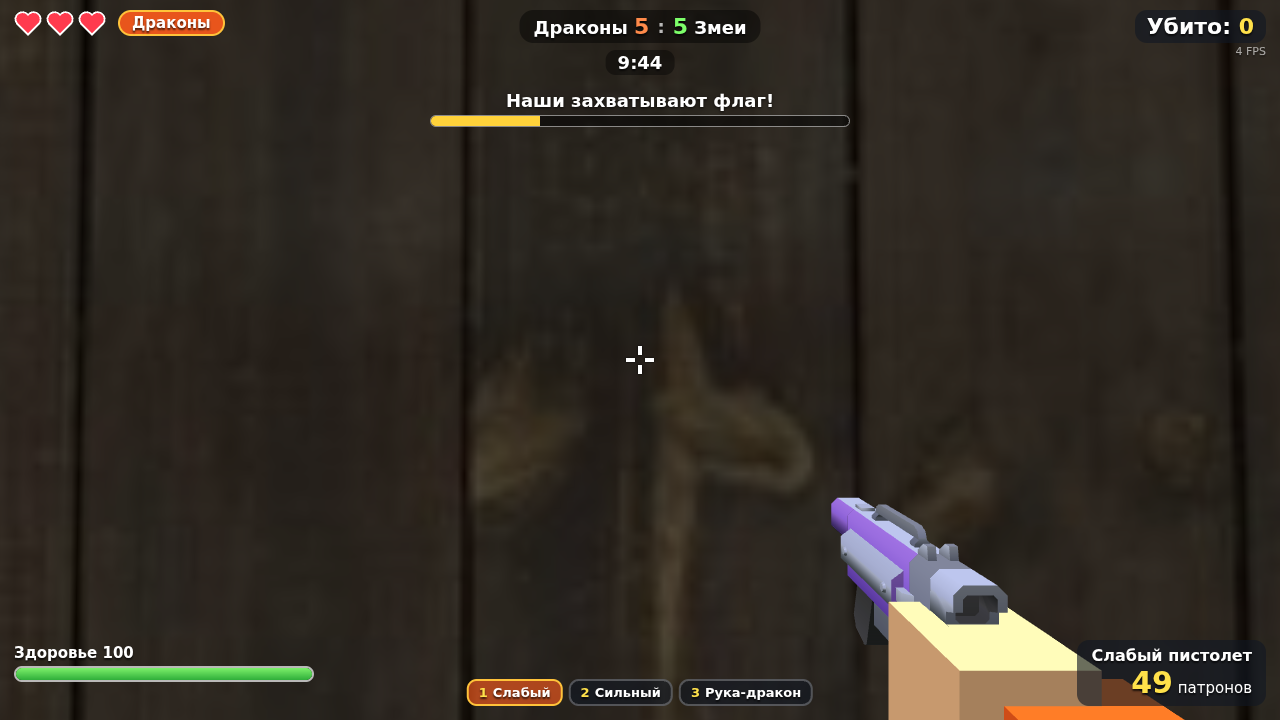
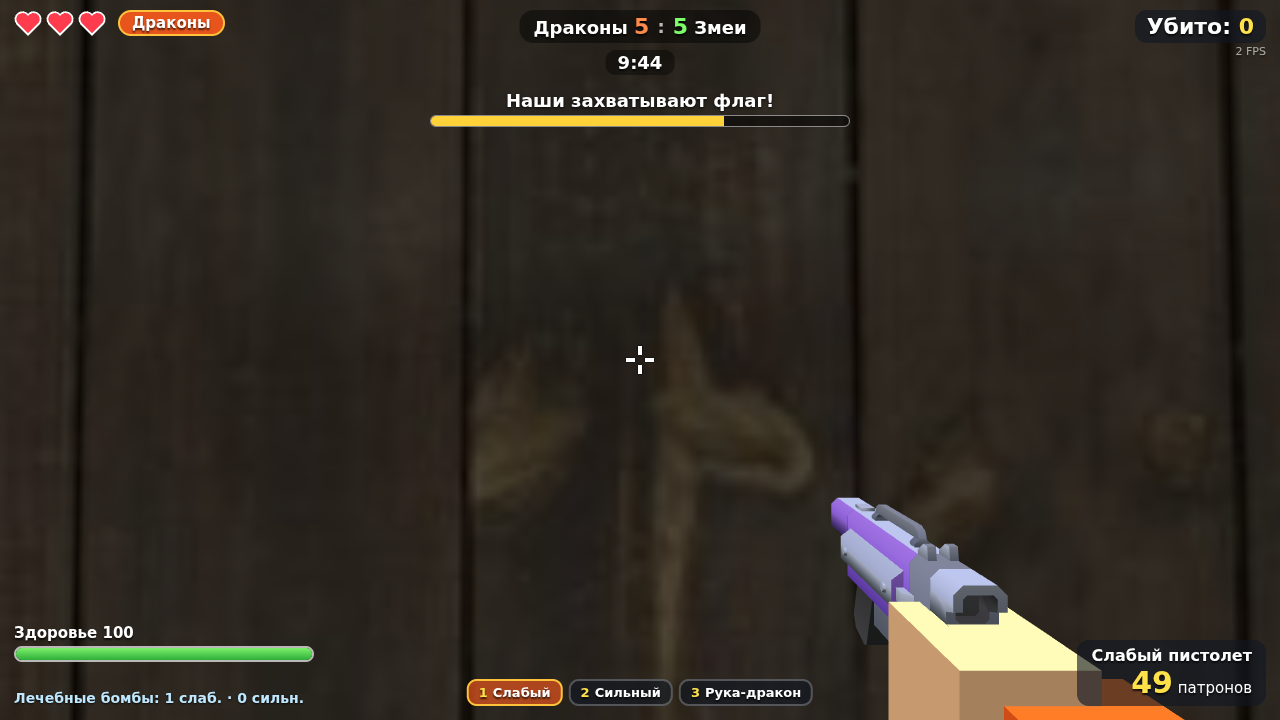
Healing bombs: dome of immortality
Weak (30 s) and strong (2 min) healing bombs, up to 3 each; one weak bomb
at the start, more from ammo chests. G/H on desktop, «Купол» on phones.
The translucent dome stays where it was thrown: inside it you cannot die,
heal 6 HP/s and cannot shoot (GDD); it blinks in the last 5 s. HUD shows
bombs left and the dome timer. Smoke: dome heals, saves, blocks shooting.

Changed region(s): [[0.0, 0.8556, 0.25, 0.9778], [0.4062, 0.1528, 0.5625, 0.1833]]

diff --git a/client/src/game.ts b/client/src/game.ts
@@ -1,5 +1,6 @@
 import {
   PhotoDome,
+  StandardMaterial,
   Color3,
   Color4,
   DirectionalLight,
@@ -131,6 +132,10 @@ export class Game {
   };
   private medkits: AmmoChest[] = [];
   readonly animals: Animal[] = [];
+  /** Лечебные бомбы в запасе */
+  bombs = { weak: 1, strong: 0 };
+  /** Активный купол бессмертия (один на игрока) */
+  dome: { mesh: Mesh; center: Vector3; until: number; total: number } | null = null;
   private playerPrey!: Prey;
   private botPrey = new Map<Bot, Prey>();
   private animalTargets = new Map<Animal, Target>();
@@ -416,6 +421,65 @@ export class Game {
     }
   }
 
+  // ---------------- Лечебные бомбы и купол ----------------
+
+  private inDome(): boolean {
+    const d = this.dome;
+    if (!d) return false;
+    const p = this.player.position;
+    return (p.x - d.center.x) ** 2 + (p.z - d.center.z) ** 2 < RULES.domeRadius ** 2;
+  }
+
+  private throwBomb(kind: "weak" | "strong" | "any"): void {
+    const k = kind === "any" ? (this.bombs.weak > 0 ? "weak" : "strong") : kind;
+    if (this.bombs[k] <= 0) {
+      this.hud.message(k === "weak" ? "Нет слабых лечебных бомб" : "Нет сильных лечебных бомб", 1.2, "#ffb347");
+      return;
+    }
+    this.bombs[k]--;
+    this.removeDome();
+    const total = k === "weak" ? RULES.domeWeakSec : RULES.domeStrongSec;
+    const mesh = MeshBuilder.CreateSphere("dome", { diameter: RULES.domeRadius * 2, segments: 24 }, this.scene);
+    const m = new StandardMaterial("domeMat", this.scene);
+    m.diffuseColor = new Color3(0.4, 1, 0.75);
+    m.emissiveColor = new Color3(0.15, 0.5, 0.35);
+    m.specularColor = new Color3(0.8, 1, 0.9);
+    m.alpha = 0.22;
+    m.backFaceCulling = false;
+    mesh.material = m;
+    mesh.isPickable = false;
+    const c = this.player.position.clone();
+    mesh.position.set(c.x, 0, c.z);
+    this.dome = { mesh, center: c, until: this.now + total, total };
+    this.sfx.pickup();
+    this.hud.message(`Купол бессмертия на ${total < 60 ? total + " с" : total / 60 + " мин"} — под ним не стреляют`, 2.2, "#7dffb0");
+  }
+
+  private removeDome(): void {
+    if (!this.dome) return;
+    this.dome.mesh.material?.dispose();
+    this.dome.mesh.dispose();
+    this.dome = null;
+  }
+
+  private updateDome(dt: number): void {
+    const d = this.dome;
+    if (!d) return;
+    const left = d.until - this.now;
+    if (left <= 0) {
+      this.removeDome();
+      this.hud.message("Купол исчез", 1.2, "#ffb347");
+      return;
+    }
+    // Последние 5 секунд купол мигает
+    (d.mesh.material as StandardMaterial).alpha = left < 5 ? 0.12 + 0.12 * Math.abs(Math.sin(this.now * 8)) : 0.22;
+    const p = this.player;
+    if (this.inDome() && p.alive) {
+      p.invulnerableUntil = Math.max(p.invulnerableUntil, this.now + 0.15);
+      p.hp = Math.min(RULES.maxHp, p.hp + RULES.domeHealPerSec * dt);
+    }
+  }
+
   // ---------------- Окна ----------------
 
   /** Стекло разбито: звон, осколки, проём свободен */
@@ -533,6 +597,8 @@ export class Game {
     this.deadTimer = 0;
     this.player.lives = RULES.lives;
     this.player.owned.delete("slingshot");
+    this.bombs = { weak: 1, strong: 0 };
+    this.removeDome();
     this.player.selectWeapon(0);
     this.respawnPlayer();
     this.bots.forEach((b, i) => {
@@ -630,6 +696,7 @@ export class Game {
       this.pickupChests();
       this.pickupMedkits();
       this.tryVault();
+      if (input.bomb) this.throwBomb(input.bomb);
     } else {
       this.prevFire = false;
       if (this.state === "dead") {
@@ -646,6 +713,7 @@ export class Game {
     const ctx = this.botContext();
     for (const b of this.bots) b.update(dt, ctx);
     this.updateAnimals(dt);
+    this.updateDome(dt);
     if (this.state === "playing" || this.state === "dead") this.updateMatch(dt);
 
     this.updateChests();
@@ -664,6 +732,8 @@ export class Game {
       hidden,
       teams: this.teamCounts(),
       owned: [...p.owned],
+      bombs: this.bombs,
+      domeLeft: this.dome ? Math.max(0, this.dome.until - this.now) : 0,
       timeLeft: this.matchLeft,
       capture: this.captureInfo(),
     });
@@ -741,6 +811,11 @@ export class Game {
 
   private tryShoot(fresh: boolean): void {
     const p = this.player;
+    // Из-под купола стрелять нельзя — только прятаться и лечиться (GDD)
+    if (this.inDome()) {
+      if (fresh) this.hud.message("Из-под купола стрелять нельзя", 1.2, "#7dffb0");
+      return;
+    }
     // В подзорную трубу не стреляют — сначала убери её (B)
     if (this.scoped) {
       if (fresh) this.hud.message(this.opts.clan === "dragons" ? "Убери подзорную трубу (B)" : "Убери бинокль (B)", 1.2, "#ffe14a");
@@ -1113,7 +1188,14 @@ export class Game {
         p.ammo = Math.min(RULES.maxAmmo, p.ammo + RULES.chestAmmo);
         this.sfx.pickup();
         // Рогатка «часто попадается в сундуках»: половина шансов, пока её нет
-        if (!p.owned.has("slingshot") && this.rng() < 0.5) {
+        const roll = this.rng();
+        if (this.bombs.weak < RULES.maxBombs && roll > 0.72) {
+          this.bombs.weak++;
+          this.hud.message("Лечебная бомба! (G)", 1.8, "#7dffb0");
+        } else if (this.bombs.strong < RULES.maxBombs && roll > 0.62 && roll <= 0.72) {
+          this.bombs.strong++;
+          this.hud.message("Сильная лечебная бомба! (H)", 1.8, "#7dffb0");
+        } else if (!p.owned.has("slingshot") && this.rng() < 0.5) {
           p.owned.add("slingshot");
           this.hud.message(this.input.isTouch ? "Нашёл рогатку! Кнопка «Оружие»" : "Нашёл рогатку! Клавиша 4", 2.2, "#ffe14a");
         } else {

diff --git a/client/src/hud.ts b/client/src/hud.ts
@@ -25,6 +25,7 @@ export class Hud {
   private teamDragons = document.querySelector<HTMLElement>("#teams .t-dragons b")!;
   private teamSnakes = document.querySelector<HTMLElement>("#teams .t-snakes b")!;
   private timer = $("timer");
+  private bombsEl = $("bombs");
   private capture = $("capture");
   private captureLabel = document.querySelector<HTMLElement>("#capture .cap-label")!;
   private captureFill = document.querySelector<HTMLElement>("#capture .cap-bar i")!;
@@ -69,7 +70,7 @@ export class Hud {
     apply();
   }
 
-  update(dt: number, s: { hp: number; ammo: number; weapon: WeaponId; kills: number; lives: number; fps: number; status: string; hidden: boolean; owned: WeaponId[]; teams: Record<ClanId, number>; timeLeft: number; capture: { text: string; t: number; color: string } | null }): void {
+  update(dt: number, s: { hp: number; ammo: number; weapon: WeaponId; kills: number; lives: number; fps: number; status: string; hidden: boolean; owned: WeaponId[]; bombs: { weak: number; strong: number }; domeLeft: number; teams: Record<ClanId, number>; timeLeft: number; capture: { text: string; t: number; color: string } | null }): void {
     const hp = Math.ceil(s.hp);
     this.set("hp", hp, () => {
       this.hpNum.textContent = String(hp);
@@ -79,6 +80,11 @@ export class Hud {
     this.set("ammo", s.ammo, () => {
       this.ammo.innerHTML = `<b>${s.ammo}</b> патронов`;
       this.ammo.classList.toggle("empty", s.ammo <= 0);
+    });
+    const bombsText = `${s.bombs.weak}|${s.bombs.strong}|${Math.ceil(s.domeLeft)}`;
+    this.set("bombs", bombsText, () => {
+      const dome = s.domeLeft > 0 ? `<span class="dome-on">Купол: ${Math.ceil(s.domeLeft)} с</span> · ` : "";
+      this.bombsEl.innerHTML = `${dome}Лечебные бомбы: ${s.bombs.weak} слаб. · ${s.bombs.strong} сильн.`;
     });
     this.set("owned", s.owned.join(","), () => {
       this.slots.forEach((el, i) => (el.style.display = s.owned.includes(WEAPON_ORDER[i]) ? "" : "none"));

diff --git a/client/src/input.ts b/client/src/input.ts
@@ -23,6 +23,8 @@ export class Input {
   weaponCycle = 0;
   /** Подзорная труба / бинокль: включить или выключить */
   scopeToggle = false;
+  /** Бросить лечебную бомбу: "weak" — G, "strong" — H, "any" — кнопка на телефоне */
+  bomb: "weak" | "strong" | "any" | null = null;
 
   mouseSensitivity = 0.0022;
   touchSensitivity = 0.0055;
@@ -76,6 +78,7 @@ export class Input {
     this.weaponSelect = null;
     this.weaponCycle = 0;
     this.scopeToggle = false;
+    this.bomb = null;
   }
 
   reset(): void {
@@ -108,6 +111,8 @@ export class Input {
       if (e.code === "KeyV") this.cameraToggle = true;
       if (e.code === "KeyQ") this.weaponCycle = 1;
       if (e.code === "KeyB") this.scopeToggle = true;
+      if (e.code === "KeyG") this.bomb = "weak";
+      if (e.code === "KeyH") this.bomb = "strong";
       const m = /^Digit([1-9])$/.exec(e.code);
       if (m) this.weaponSelect = Number(m[1]) - 1;
     });
@@ -311,6 +316,7 @@ export class Input {
       this.syncToggleButtons();
     });
     btn("btn-scope", () => (this.scopeToggle = true));
+    btn("btn-dome", () => (this.bomb = "any"));
     btn("btn-weapon", () => (this.weaponCycle = 1));
     root.classList.add("on");
   }

diff --git a/client/index.html b/client/index.html
@@ -56,7 +56,7 @@
           <button data-q="low">Быстро</button>
         </div>
         <button id="play" class="big">Играть</button>
-        <p class="hint desktop-only">WASD — ходить, ЛКМ — стрелять, ПКМ — прицел, B — труба/бинокль, V — камера</p>
+        <p class="hint desktop-only">WASD — ходить, ЛКМ — стрелять, ПКМ — прицел, B — труба/бинокль, G/H — купол, V — камера</p>
         <p class="hint touch-only">Поверни телефон горизонтально</p>
       </div>
     </section>
@@ -87,6 +87,7 @@
         <div class="hp-label">Здоровье <b id="hp-num">100</b></div>
         <div class="hp-bar"><div id="hp-fill"></div></div>
         <div id="status"></div>
+        <div id="bombs"></div>
       </div>
 
       <div class="hud-br">
@@ -119,6 +120,7 @@
       <button id="btn-weapon" class="tbtn small">Оружие</button>
       <button id="btn-scope" class="tbtn small">Труба</button>
       <button id="btn-aim" class="tbtn">Прицел</button>
+      <button id="btn-dome" class="tbtn small">Купол</button>
     </section>
 
     <!-- Пауза (ПК) -->

diff --git a/shared/src/index.ts b/shared/src/index.ts
@@ -75,6 +75,14 @@ export const RULES = {
   flagRadius: 6,
   /** Синяя аптечка: сколько здоровья даёт */
   medkitHp: 25,
+  /** Лечебные бомбы: купол бессмертия, сек (слабая / сильная) */
+  domeWeakSec: 30,
+  domeStrongSec: 120,
+  /** Радиус купола, м; под ним лечение в секунду */
+  domeRadius: 3,
+  domeHealPerSec: 6,
+  /** Сколько бомб каждого вида можно носить */
+  maxBombs: 3,
 } as const;
 
 export type WeaponId = "weakPistol" | "strongPistol" | "clanWeapon" | "slingshot";

diff --git a/client/src/style.css b/client/src/style.css
@@ -876,3 +876,21 @@ body.touch #capture {
   top: 100px;
   font-size: 15px;
 }
+
+/* ----- Лечебные бомбы ----- */
+#bombs {
+  margin-top: 4px;
+  font-size: 14px;
+  font-weight: 700;
+  color: #bfe8ff;
+  text-shadow: 0 1px 2px rgba(0, 0, 0, 0.8);
+}
+#bombs .dome-on {
+  color: #7dffb0;
+}
+#btn-dome {
+  right: calc(max(14px, env(safe-area-inset-right)) + 290px);
+}
+body.touch #bombs {
+  font-size: 12px;
+}
